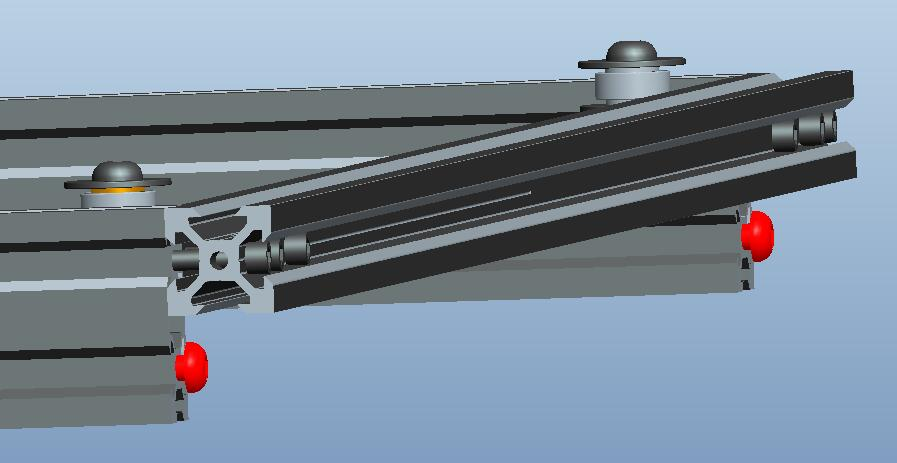
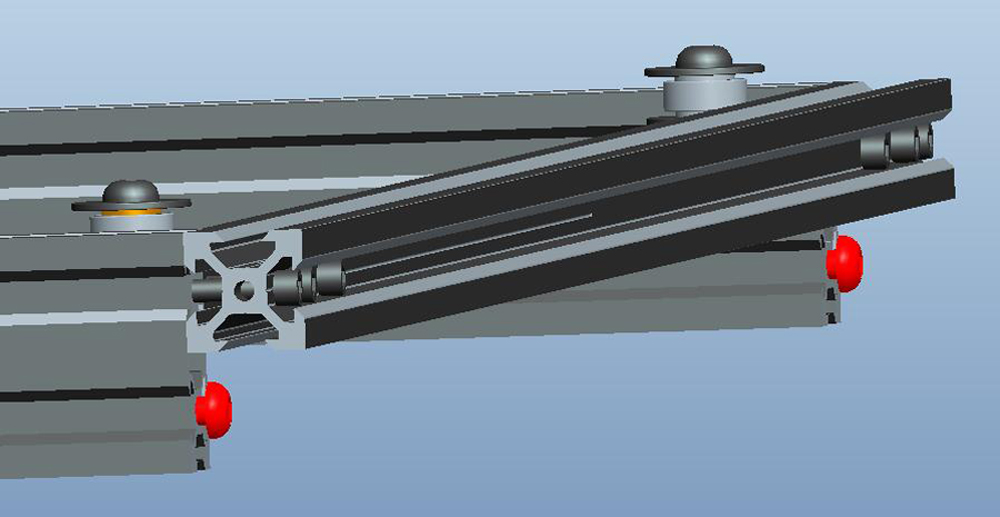
updata guide for Z9V5_500x500

diff --git a/Z9V5_500x500/readme.md b/Z9V5_500x500/readme.md
@@ -1,4 +1,4 @@
-### :globe_with_meridians: Choose Language (Translated by google)
+<!-- ### :globe_with_meridians: Choose Language (Translated by google)
 [![](../lanpic/ES.png)](https://github-com.translate.goog/ZONESTAR3D/Upgrade-kit-guide/tree/main/Z9V5_500x500?_x_tr_sl=en&_x_tr_tl=es)
 [![](../lanpic/PT.png)](https://github-com.translate.goog/ZONESTAR3D/Upgrade-kit-guide/tree/main/Z9V5_500x500?_x_tr_sl=en&_x_tr_tl=pt)
 [![](../lanpic/FR.png)](https://github-com.translate.goog/ZONESTAR3D/Upgrade-kit-guide/tree/main/Z9V5_500x500?_x_tr_sl=en&_x_tr_tl=fr)
@@ -25,7 +25,7 @@
 [![](../lanpic/BR.png)](https://github-com.translate.goog/ZONESTAR3D/Upgrade-kit-guide/tree/main/Z9V5_500x500?_x_tr_sl=en&_x_tr_tl=pt)
 [![](../lanpic/CN.png)](https://github-com.translate.goog/ZONESTAR3D/Upgrade-kit-guide/tree/main/Z9V5_500x500?_x_tr_sl=en&_x_tr_tl=zh-CN)
 
------
+----- -->
 # Z9V5Pro 500x500 Upgrade Kit Installation and Wiring Guide
 
 -----
@@ -35,17 +35,21 @@ Before upgrading the 500x500 kit, please click [**:arrow_down:here**](./br_hecab
 ![](./br_hecable.jpg)
 ### 2. Upgrade firmware for Z9V5Pro-Max
 Download and upload the firmware for upgraded to 500x500 to the control board.
-- **[For Z9V5Pro-MK3/MK4/MK5, use Z9V5ProMK4Max](https://github.com/ZONESTAR3D/Firmware/tree/master/Z9/Z9V5/bin/Z9V5Pro-MK4/customized)**
-- **[For Z9V5Pro-MK1/MK2, use Z9V5ProMax](https://github.com/ZONESTAR3D/Firmware/blob/master/Z9/Z9V5/bin/Z9V5Pro/customized/)**
+- **[For Z9V5Pro-MK6](https://github.com/ZONESTAR3D/Firmware/tree/master/Z9/Z9V5/bin/Z9V5Pro-MK6/customized)**
+- **[For Z9V5Pro-MK3/MK4/MK5](https://github.com/ZONESTAR3D/Firmware/tree/master/Z9/Z9V5/bin/Z9V5Pro-MK4/customized)**
+- **[For Z9V5Pro-MK1/MK2](https://github.com/ZONESTAR3D/Firmware/blob/master/Z9/Z9V5/bin/Z9V5Pro/customized/)**
 
 -----
 ## Installation and Wiring
 ### 1. Disassemble the machine into modules, such as the top assembly, bottom assembly, Controller assembly, Z-carrier assemblies, etc..
-### 2.Assemble the bottom profile frame according to the image below and install the rubber foot pads to the bottom profile.
+### 2. Assemble the bottom profile frame according to the picture below and install the rubber foot pads to the bottom profile.
 ![](./botass.jpg)
-### 3. Replace the X axis profile.
+### 3. Replace X axis profile and Z-axis carriers' bracket.
+#### 3.1 Replace the X axis profile.
 ![](./Xass.jpg)
-### 4. Assemble the top profile frame according to the image below. 
+#### 3.2 Replacing the metal bracket of the Z-axis carriers.
+![](./Zcarrier.jpg)
+### 4. Assemble the top profile frame according to the picture below. 
 #### :warning: Note: The installation of the screws to fix the profiles are different from before. 
 #### :warning: Note: Do not tighten the screws too tightly at this step.  
 ![](./topframe.jpg)
@@ -56,8 +60,8 @@ Download and upload the firmware for upgraded to 500x500 to the control board.
 ![](./topass-1.jpg)    
 #### :warning:Note: The two screws (labeled ① in the above picture) only exists in the latest version Z9V5Pro frame.
 ### 6. Open the control box, install the relay board and wiring floowing to the wiring diagram below.
-### :zap:ATTETION PLEASE::zap:
-- **The hot bed is worked at AC110V (220V), be careful not to damage the insulation layer when wiring.**
+### :zap:ATTENTION PLEASE::zap:
+- **The hot bed is worked at AC110V (220V), be careful not to damage the wires' insulation layer when wiring.**
 - **Before wiring, remove the plastic plug on the control box and let the hot bed wire pass through this hole.**
 - **Please pay attention to distinguishing between the L and N wires of AC power and the NO/NC pin of the relay board.**    
 ![](./relayboard.jpg)    

diff --git a/HOTEND/M4  4-IN-1-OUT Mixing Color Hotend/M4_V6/readme.md b/HOTEND/M4  4-IN-1-OUT Mixing Color Hotend/M4_V6/readme.md
@@ -1,4 +1,4 @@
-### :globe_with_meridians: Choose Language (Translated by google)
+<!-- ### :globe_with_meridians: Choose Language (Translated by google)
 [![](../../../lanpic/ES.png)](https://github-com.translate.goog/ZONESTAR3D/Upgrade-kit-guide/tree/main/HOTEND/M4%20%204-IN-1-OUT%20Mixing%20Color%20Hotend/M4_V6?_x_tr_sl=en&_x_tr_tl=es)
 [![](../../../lanpic/PT.png)](https://github-com.translate.goog/ZONESTAR3D/Upgrade-kit-guide/tree/main/HOTEND/M4%20%204-IN-1-OUT%20Mixing%20Color%20Hotend/M4_V6?_x_tr_sl=en&_x_tr_tl=pt)
 [![](../../../lanpic/FR.png)](https://github-com.translate.goog/ZONESTAR3D/Upgrade-kit-guide/tree/main/HOTEND/M4%20%204-IN-1-OUT%20Mixing%20Color%20Hotend/M4_V6?_x_tr_sl=en&_x_tr_tl=fr)
@@ -23,7 +23,7 @@
 [![](../../../lanpic/TR.png)](https://github-com.translate.goog/ZONESTAR3D/Upgrade-kit-guide/tree/main/HOTEND/M4%20%204-IN-1-OUT%20Mixing%20Color%20Hotend/M4_V6?_x_tr_sl=en&_x_tr_tl=tr)
 [![](../../../lanpic/GR.png)](https://github-com.translate.goog/ZONESTAR3D/Upgrade-kit-guide/tree/main/HOTEND/M4%20%204-IN-1-OUT%20Mixing%20Color%20Hotend/M4_V6?_x_tr_sl=en&_x_tr_tl=el)
 [![](../../../lanpic/BR.png)](https://github-com.translate.goog/ZONESTAR3D/Upgrade-kit-guide/tree/main/HOTEND/M4%20%204-IN-1-OUT%20Mixing%20Color%20Hotend/M4_V6?_x_tr_sl=en&_x_tr_tl=pt)
-[![](../../../lanpic/CN.png)](https://github-com.translate.goog/ZONESTAR3D/Upgrade-kit-guide/tree/main/HOTEND/M4%20%204-IN-1-OUT%20Mixing%20Color%20Hotend/M4_V6?_x_tr_sl=en&_x_tr_tl=zh-CN)
+[![](../../../lanpic/CN.png)](https://github-com.translate.goog/ZONESTAR3D/Upgrade-kit-guide/tree/main/HOTEND/M4%20%204-IN-1-OUT%20Mixing%20Color%20Hotend/M4_V6?_x_tr_sl=en&_x_tr_tl=zh-CN) -->
 
 -----
 ## :book: M4V6 hot end use manual
